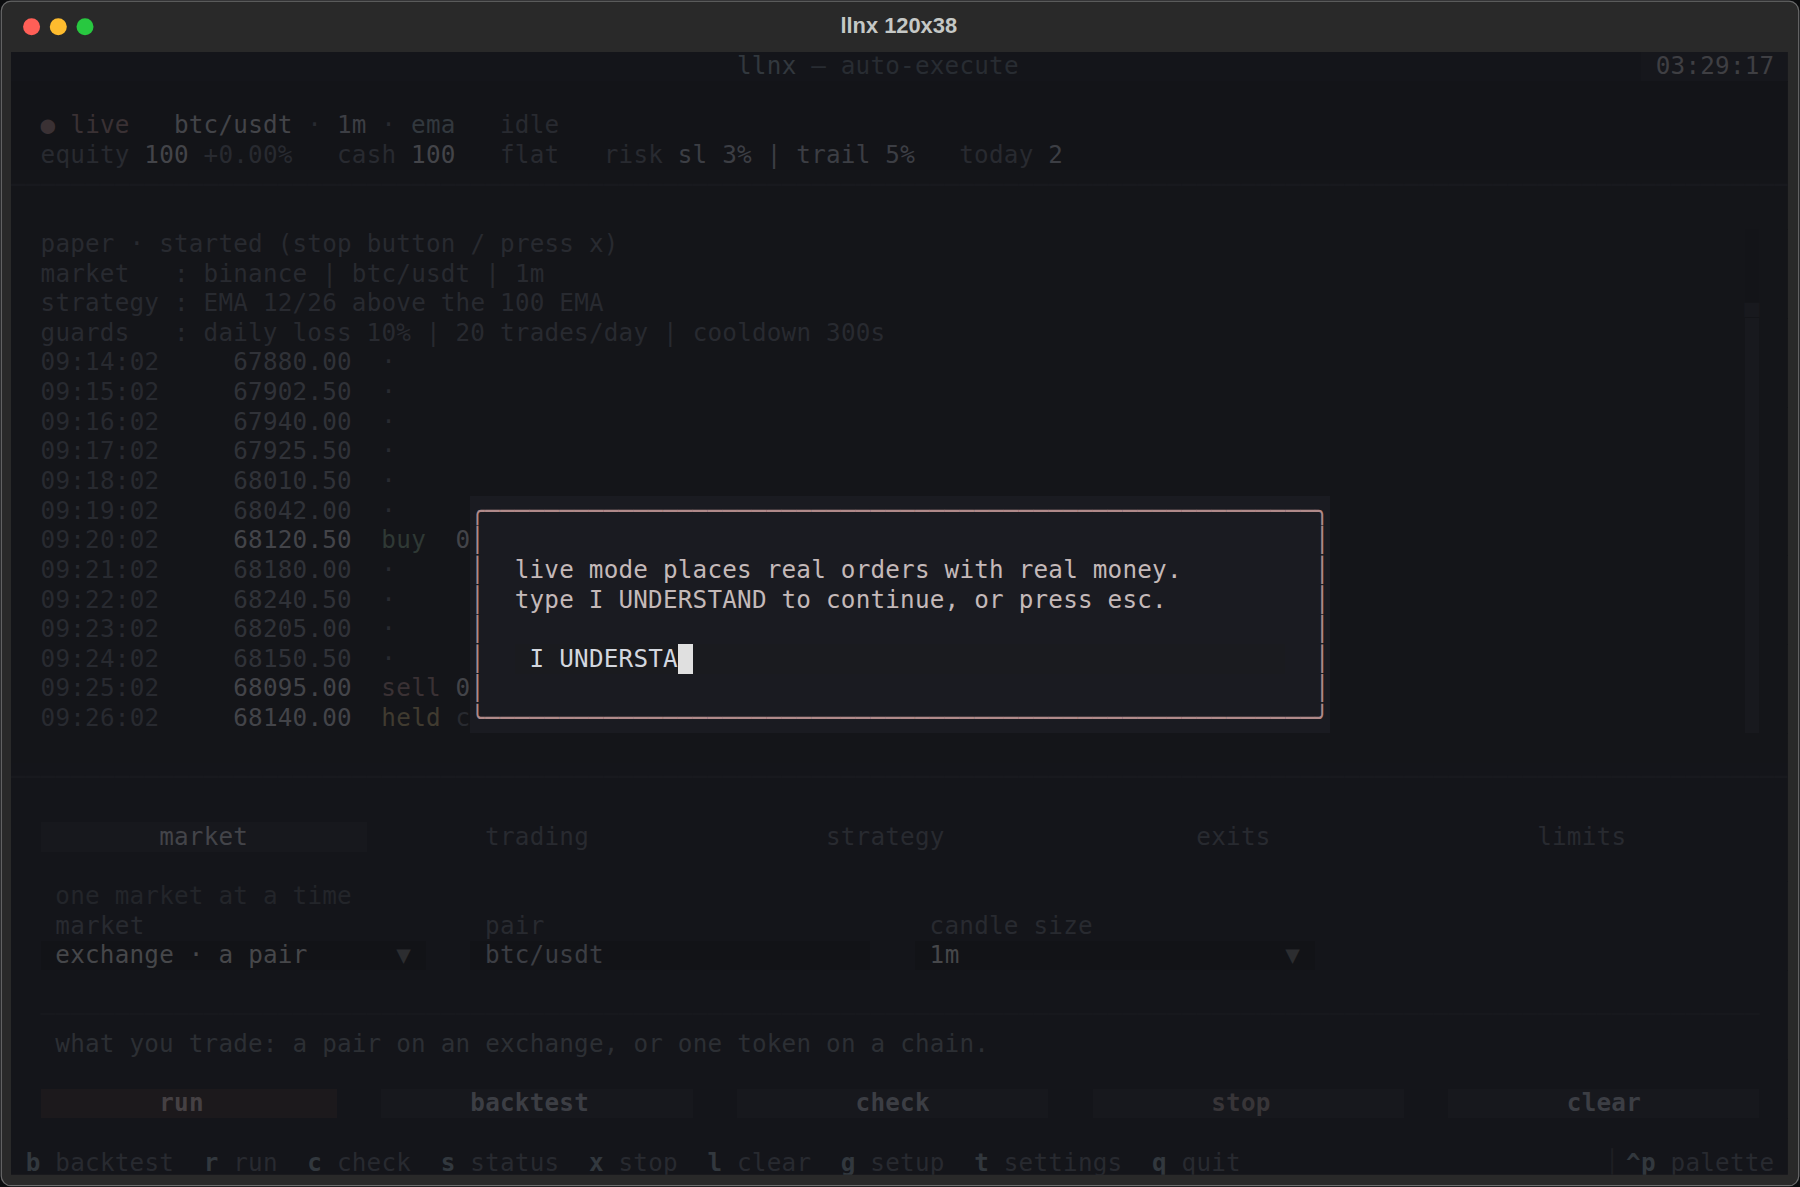
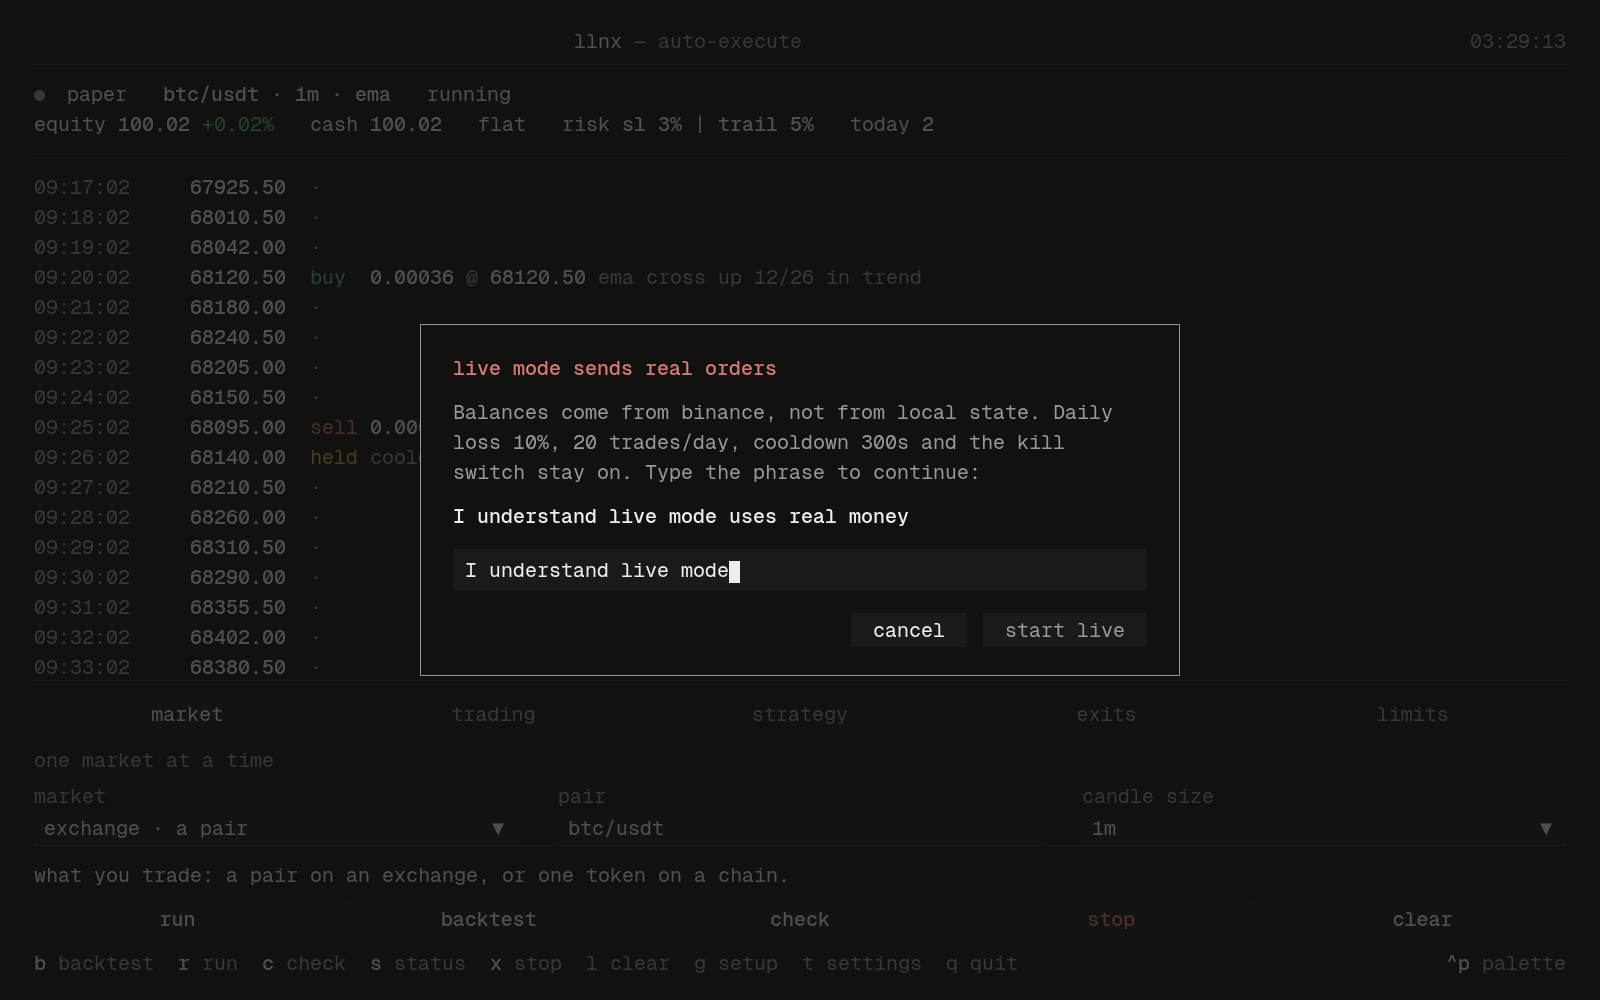
feat: add new Section component and update project image details

diff --git a/lib/project-case-studies.ts b/lib/project-case-studies.ts
@@ -173,10 +173,11 @@ export const llnxCaseStudy = {
   ],
   hero: {
     src: "/projects/llnx/tui-overview.png",
-    width: 1800,
-    height: 1187,
-    alt: "The llnx TUI showing trading status, logs, and settings",
-    caption: "Desktop TUI: status, per-poll logs, and settings remain in three consistent bands.",
+    width: 1600,
+    height: 1000,
+    alt: "The llnx TUI in paper mode showing the status band, per-poll trade logs, and the market settings tab",
+    caption:
+      "Desktop TUI: status, per-poll logs, and settings stay in three consistent bands. Rendered for this case study with a sample paper session.",
   },
   overview: [
     "llnx watches the market, runs a strategy, applies stop-loss and take-profit rules, checks every guardrail, and then passes the decision to a broker and venue.",
@@ -251,24 +252,24 @@ export const llnxCaseStudy = {
   gallery: [
     {
       src: "/projects/llnx/tui-strategy.png",
-      width: 1800,
-      height: 1187,
-      alt: "The llnx strategy panel showing parameters for the selected strategy",
+      width: 1600,
+      height: 1000,
+      alt: "The llnx strategy tab showing EMA fast, slow, and trend-filter parameters while unrelated strategy settings stay hidden",
       caption: "The strategy screen hides irrelevant parameters instead of merely disabling them.",
     },
     {
       src: "/projects/llnx/tui-live-confirm.png",
-      width: 1800,
-      height: 1187,
-      alt: "The live-mode confirmation dialog in the llnx TUI",
+      width: 1600,
+      height: 1000,
+      alt: "The live-mode confirmation dialog in the llnx TUI asking for a typed phrase before real orders are sent",
       caption: "Live mode requires a confirmation phrase before any real order can be sent.",
     },
     {
       src: "/projects/llnx/tui-termux.png",
-      width: 1800,
-      height: 4420,
-      alt: "The llnx TUI in portrait orientation inside a Termux terminal",
-      caption: "The Termux portrait layout compacts status and makes settings scrollable without wrapping the logs.",
+      width: 720,
+      height: 1440,
+      alt: "The llnx TUI in portrait orientation with a compact status band, wrapped tabs, and stacked settings",
+      caption: "The Termux portrait layout compacts status and reflows tabs and settings around the narrow terminal.",
       portrait: true,
     },
   ],
@@ -295,10 +296,11 @@ export const llianDevCaseStudy = {
   ],
   hero: {
     src: "/projects/llian-dev/overview.png",
-    width: 1200,
-    height: 630,
-    alt: "The llian.dev banner reading “Small tools for real tasks. No account. No upload. No noise.”",
-    caption: "The pitch in one line: open a task, finish it on the same device, close the tab.",
+    width: 1600,
+    height: 900,
+    alt: "The llian.dev home page reading “Small tools for real tasks. No account. No upload. No noise.” above six tool categories",
+    caption:
+      "The pitch in one line: open a task, finish it on the same device, close the tab. Rendered for this case study.",
   },
   overview: [
     "Tools for images, PDFs, developer work, text, everyday tasks, and finance each have a dedicated static page with a shareable URL.",
@@ -345,6 +347,16 @@ export const llianDevCaseStudy = {
     "pdf-lib",
     "pdfjs-dist",
     "Cloudflare Workers",
+  ],
+  gallery: [
+    {
+      src: "/projects/llian-dev/tools.png",
+      width: 1600,
+      height: 900,
+      alt: "The llian.dev tools index with a search field and a grid of tool cards grouped by category",
+      caption:
+        "The tools index: every tool has its own page, and Indonesian-specific calculators sit beside universal ones. Rendered for this case study.",
+    },
   ],
   note: {
     label: "Privacy boundary",

diff --git a/lib/content.ts b/lib/content.ts
@@ -207,9 +207,9 @@ const projects: Project[] = [
     stack: ["Python", "Textual", "ccxt", "Solana"],
     image: {
       src: "/projects/llnx/tui-overview.png",
-      width: 1800,
-      height: 1187,
-      alt: "The llnx terminal interface showing live status, trade logs, and settings",
+      width: 1600,
+      height: 1000,
+      alt: "The llnx terminal interface showing paper-trading status, per-poll trade logs, and market settings",
     },
     detailHref: "/projects/llnx",
     action: {
@@ -225,9 +225,9 @@ const projects: Project[] = [
     stack: ["Next.js", "Tailwind CSS", "pdf-lib", "Cloudflare"],
     image: {
       src: "/projects/llian-dev/overview.png",
-      width: 1200,
-      height: 630,
-      alt: "The llian.dev banner: small tools for real tasks, no account, no upload, no noise",
+      width: 1600,
+      height: 900,
+      alt: "The llian.dev home page: small tools for real tasks, no account, no upload, no noise, with six tool categories",
     },
     detailHref: "/projects/llian-dev",
     action: { label: "Visit", href: "https://llian.dev", kind: "live" },

diff --git a/app/studio/[slug]/page.tsx b/app/studio/[slug]/page.tsx
@@ -335,7 +335,7 @@ function DevOverview({ theme }: { theme: string }) {
       <div className={s.devCats}>
         {devCategories.map(([label, desc, count]) => (
           <div key={label}>
-            {label} <span className={s.muted}>· {count}</span>
+            <strong>{label} <em>· {count}</em></strong>
             <span>{desc}</span>
           </div>
         ))}
@@ -568,7 +568,7 @@ function LlnxStrategy() {
 function LlnxTermux() {
   return (
     <TuiShell time="03:29:16" compact>
-      <TuiLog rows={logRows.slice(3, 15)} compact />
+      <TuiLog rows={logRows} compact />
       <TuiTabs active="market" compact />
       <div className={s.tuiForm}>
         one market at a time
@@ -578,7 +578,7 @@ function LlnxTermux() {
           <TuiField label="candle size" value="1m" select wide />
         </div>
       </div>
-      <div className={s.tuiHelp}>what you trade: a pair on an exchange, or one token on a chain.</div>
+      <div className={s.tuiHelp}>what you trade: a pair, or one token.</div>
       <TuiFooter compact />
     </TuiShell>
   );

diff --git a/app/components/section.tsx b/app/components/section.tsx
@@ -1,0 +1,40 @@
+import type { ReactNode } from "react";
+import styles from "../page.module.css";
+import { Reveal, stagger } from "./reveal";
+
+export function Section({
+  id,
+  title,
+  sub,
+  delay,
+  children,
+}: {
+  id: string;
+  title: string;
+  sub?: string;
+  delay?: number;
+  children: ReactNode;
+}) {
+  return (
+    <Reveal
+      as="section"
+      id={id}
+      className={`${styles.contentSection} ${styles.bleedTop}`}
+      aria-labelledby={`${id}-title`}
+      delay={delay}
+    >
+      <div className={styles.sectionHeader}>
+        <h2 id={`${id}-title`} className={`${styles.sectionTitle} rv`} style={stagger(0)}>
+          <span aria-hidden="true"># </span>
+          {title}
+        </h2>
+        {sub && (
+          <p className={`${styles.sectionSubtitle} rv`} style={stagger(1)}>
+            {sub}
+          </p>
+        )}
+      </div>
+      <div className={styles.sectionBody}>{children}</div>
+    </Reveal>
+  );
+}

diff --git a/app/studio/studio.module.css b/app/studio/studio.module.css
@@ -608,6 +608,17 @@
   border-left: 1px solid var(--line);
 }
 
+.devCats strong {
+  display: block;
+  font-weight: 500;
+}
+
+.devCats em {
+  color: var(--muted);
+  font-style: normal;
+  font-weight: 400;
+}
+
 .devCats span {
   display: block;
   margin-top: 2px;
@@ -617,7 +628,9 @@
 
 .devGrid {
   display: grid;
+  flex: 1;
   grid-template-columns: repeat(4, minmax(0, 1fr));
+  grid-auto-rows: 1fr;
   gap: 14px;
   padding-top: 4px;
 }
@@ -778,6 +791,10 @@
   display: grid;
   gap: 0 24px;
   padding-bottom: 12px;
+}
+
+.tui[data-compact] .tuiButtons {
+  gap: 8px 16px;
 }
 
 .tuiButtons span {
